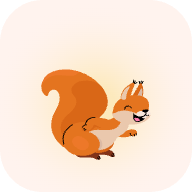
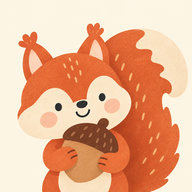
feat: 坐姿捧莓松鼠、新 App 圖示；泡泡尖角往左轉 15 度；賓果松鼠縮小
- 我的小本本換成 GPT 重畫的坐姿捧紅莓松鼠
- 新 App 圖示：app-shell/app-icon-1024.png（給 iOS）＋網頁版 icons 三張一起換
- 首頁泡泡位置恢復，只把尖角單獨往左轉 15 度對著松鼠（新檔 speach_bubble_home.svg）
- 賓果頁松鼠 190px 縮到 132px

diff --git a/styles.css b/styles.css
@@ -215,8 +215,8 @@ body.parent-mode .greet-row { padding-right: 0; }
 .squirrel-wrap:active img { transform: translateY(2px) scale(.98); }
 .squirrel-bubble {
   position: absolute;
-  left: calc(50% + 16px);
-  top: 2px;
+  left: calc(50% + 40px);
+  top: -8px;
   width: 122px;
   height: 52px;
   color: var(--orange);
@@ -230,8 +230,7 @@ body.parent-mode .greet-row { padding-right: 0; }
   display: inline-flex;
   align-items: center;
   justify-content: center;
-  background: url("assets/speach_bubbles30.svg") center / contain no-repeat;
-  transform: rotate(-4deg);
+  background: url("assets/speach_bubble_home.svg") center / contain no-repeat;
 }
 @keyframes breathe {
   0%, 100% { transform: translateY(0) rotate(-1deg); }
@@ -502,10 +501,11 @@ body.parent-mode .greet-row { padding-right: 0; }
   min-width: 0;
 }
 .bingo-hero img {
-  width: 190px;
-  height: 190px;
+  width: 132px;
+  height: 132px;
+  object-fit: contain;
   flex-shrink: 0;
-  margin: -64px -20px -50px auto;
+  margin: -24px -6px -20px auto;
   filter: drop-shadow(0 8px 20px rgba(94,84,83,0.12));
   animation: breathe 3.2s ease-in-out infinite;
 }

diff --git a/index.html b/index.html
@@ -13,7 +13,7 @@
 <link rel="preconnect" href="https://fonts.googleapis.com">
 <link rel="preconnect" href="https://fonts.gstatic.com" crossorigin>
 <link href="https://fonts.googleapis.com/css2?family=Chiron+GoRound+TC:wght@400;500;700;800&display=swap" rel="stylesheet">
-<link rel="stylesheet" href="styles.css?v=89">
+<link rel="stylesheet" href="styles.css?v=90">
 <title>松鼠點數收集 · 歐的樂星球</title>
 </head>
 <body class="child-mode">
@@ -201,7 +201,7 @@
             <span id="mine-current">0</span> 顆橡實
           </div>
         </div>
-        <img src="assets/squirrel-normal.webp" alt="松鼠" class="points-card-squirrel mine" />
+        <img src="assets/squirrel-mine.webp" alt="捧著紅莓的松鼠" class="points-card-squirrel mine" />
       </div>
     </header>
 

diff --git a/sw.js b/sw.js
@@ -1,5 +1,5 @@
 // PWA service worker — network-first（線上永遠抓最新，離線回 cache）
-const CACHE = 'squirrel-points-v22';
+const CACHE = 'squirrel-points-v23';
 const SHELL = [
   './',
   './index.html',
@@ -16,6 +16,7 @@ const SHELL = [
   './assets/squirrel-happy.webp',
   './assets/squirrel-cheer.webp',
   './assets/squirrel-run.webp',
+  './assets/squirrel-mine.webp',
   './assets/stickers/daily/1F308.svg',
   './assets/stickers/daily/1F33A.svg',
   './assets/stickers/daily/1F344.svg',
